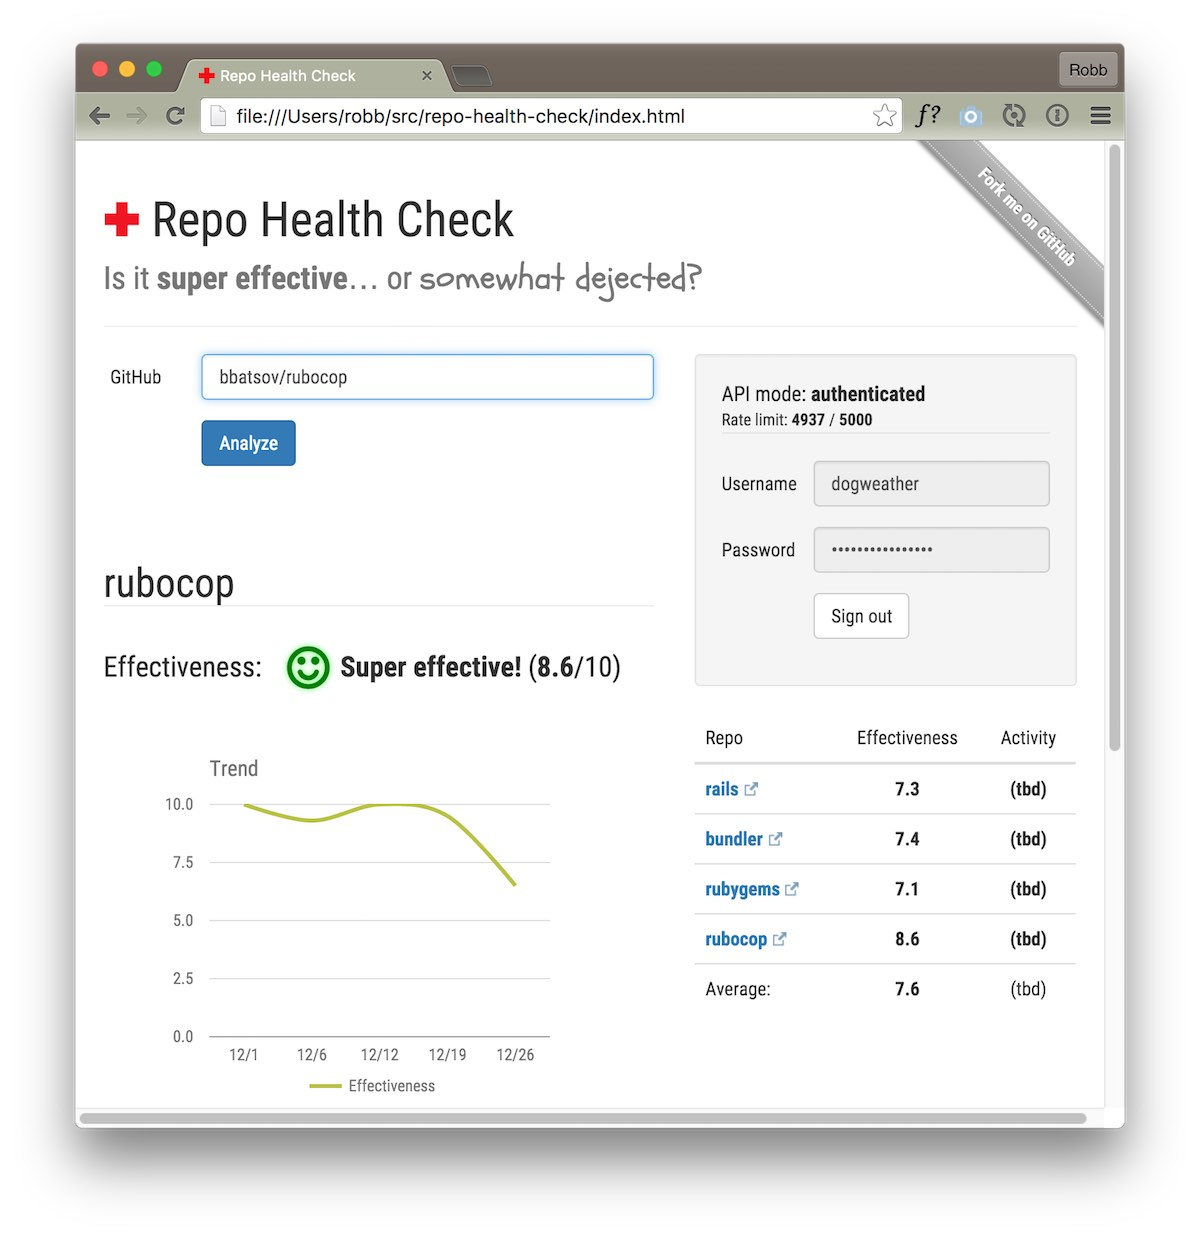
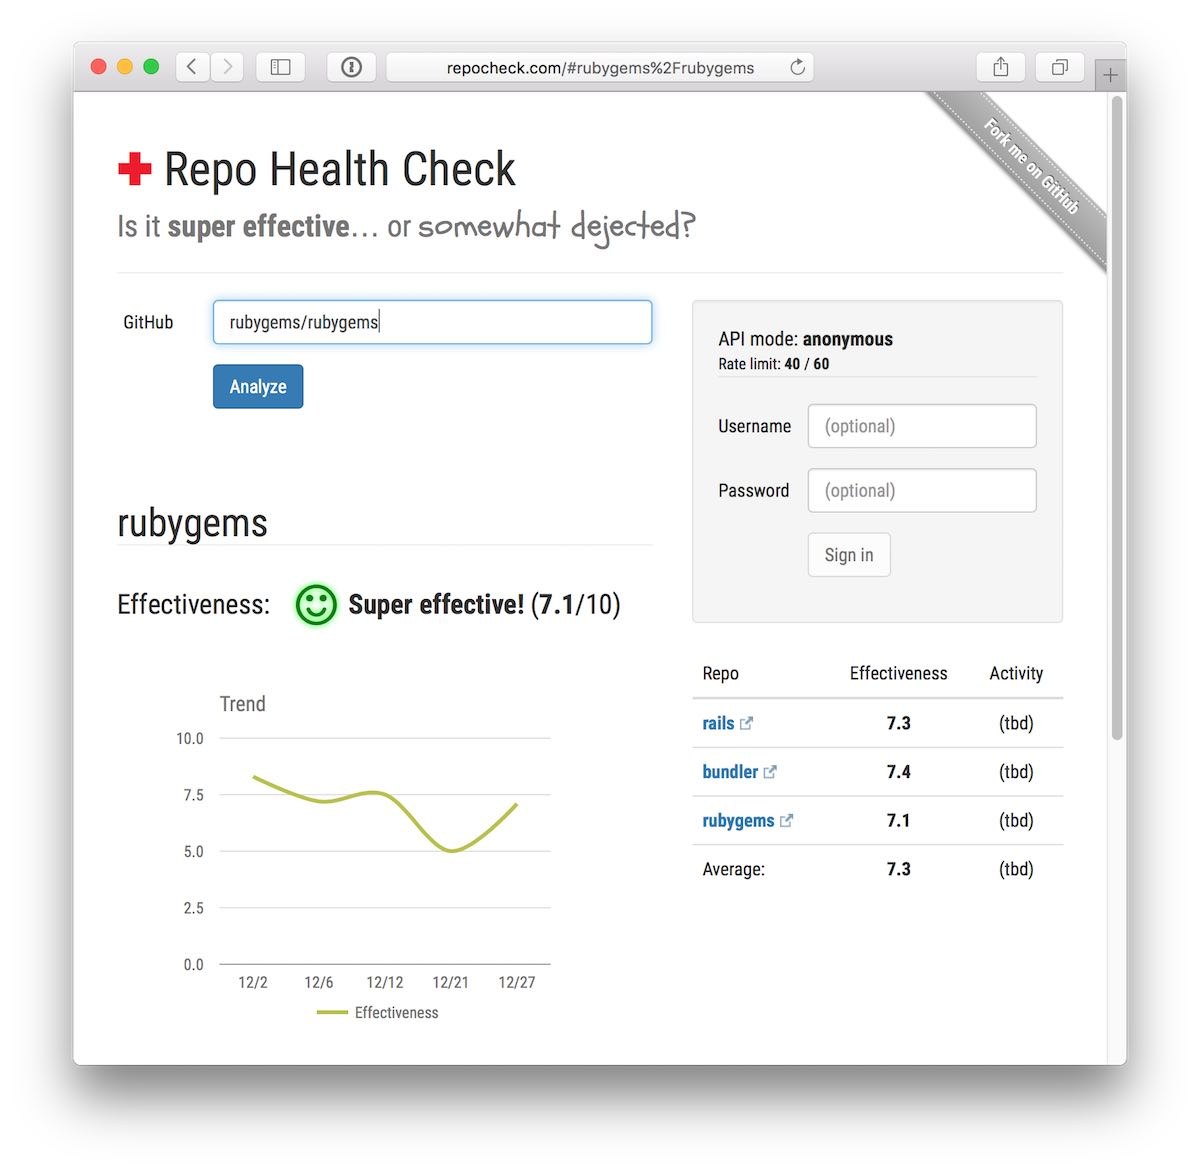
first pass at permalink handling

diff --git a/lib/app.js b/lib/app.js
@@ -40,9 +40,10 @@
 
   checkForPermalink = function() {
     var repoSpec;
-    if (!_.isUndefined(window.location.hash)) {
+    if (window.location.hash) {
       repoSpec = decodeURIComponent(window.location.hash.slice(1));
-      return console.log(repoSpec);
+      $(REPO_INPUT).val(repoSpec);
+      return startAnalysis();
     }
   };
 
